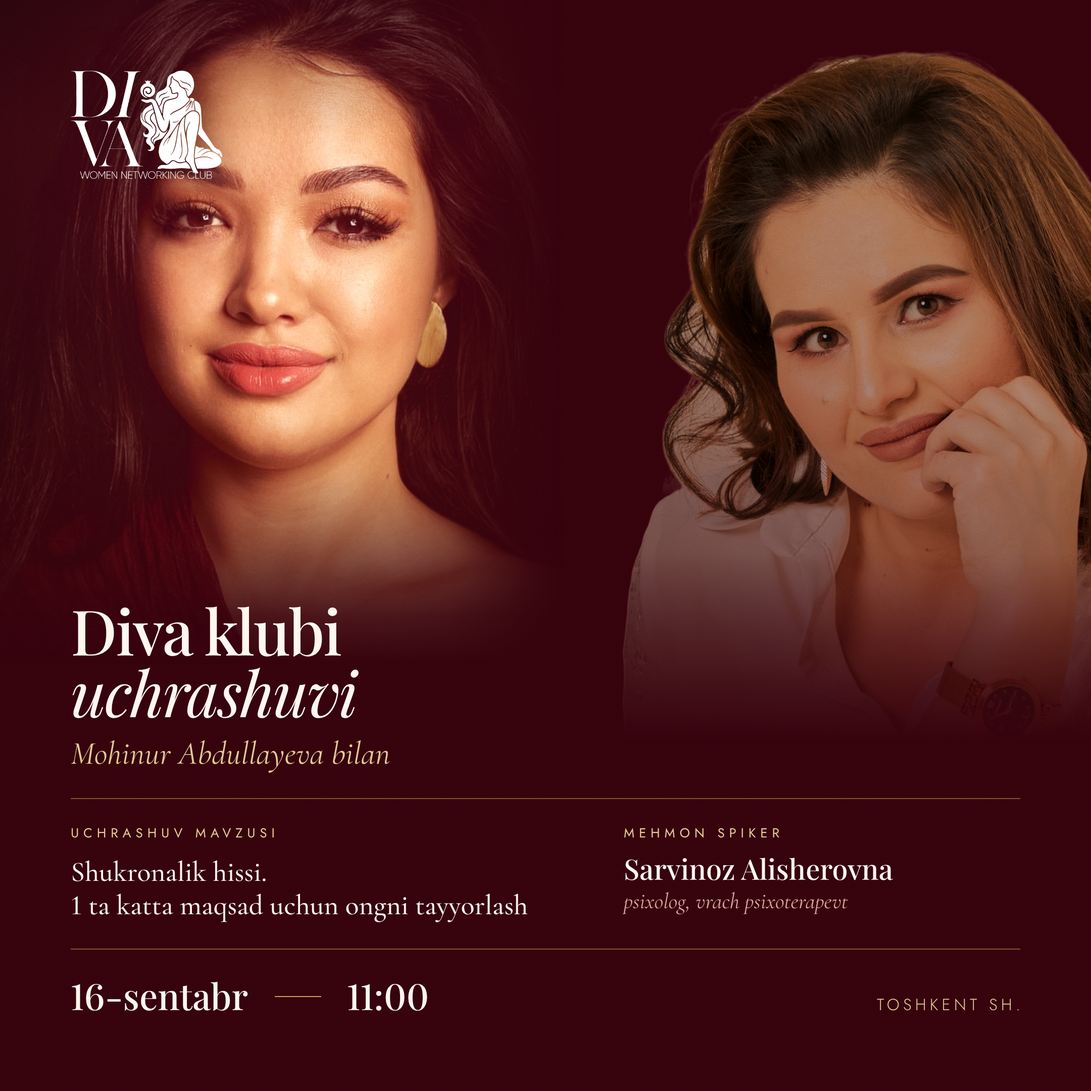
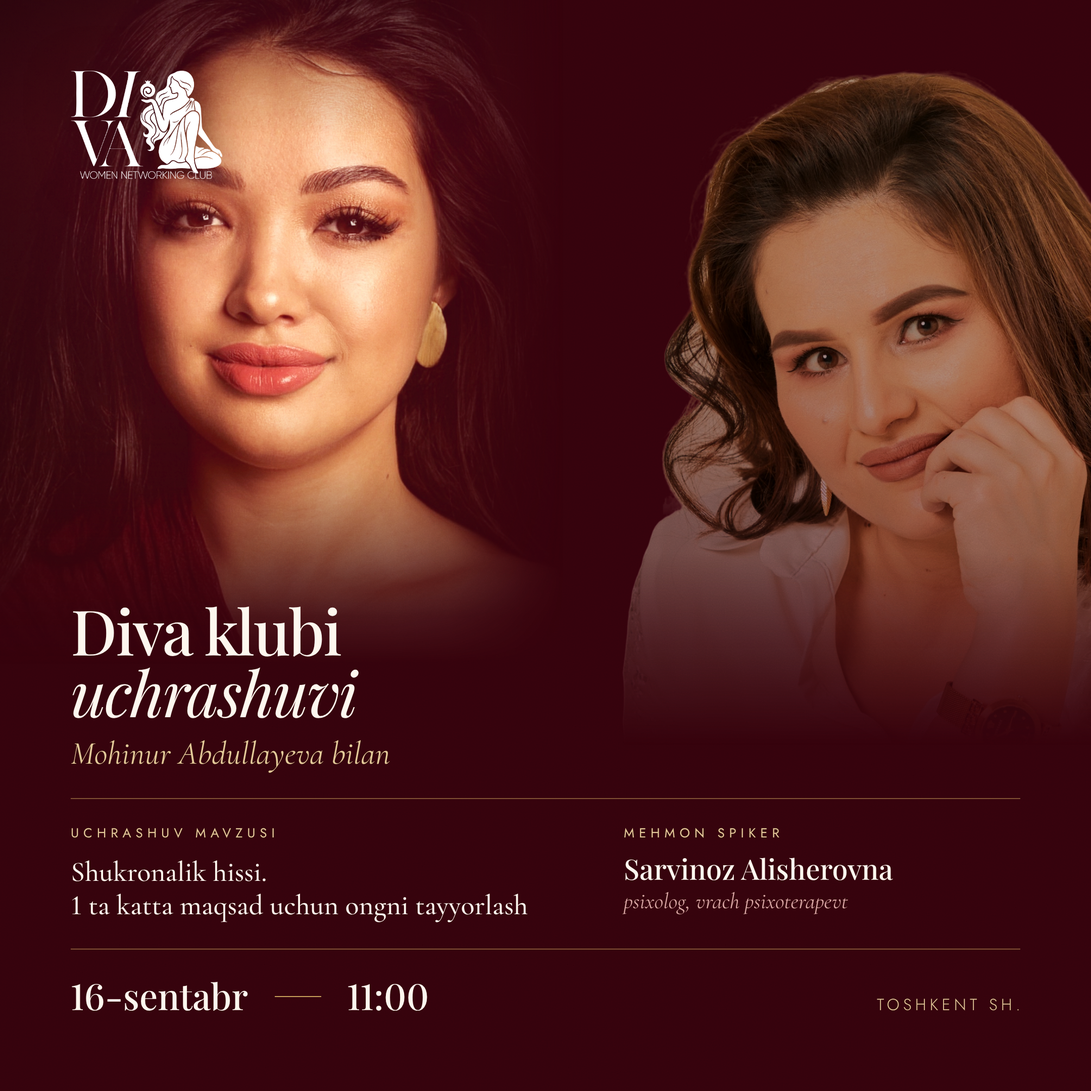
Polish direction C: dissolve the 1:1 hero, clear the story bands
The 1:1 hero panel now dissolves its two free edges with an alpha mask
instead of a painted ramp: every ramp in the file was fading toward
rgb(34,1,8) while the ground is rgb(52,2,12), so each dissolve dipped
about 11 levels dark and stepped back at the edge. A mask lets the
ground show through itself, grain included, with nothing to match.

Also lifts the 9:16 masthead, date and venue clear of the bands a
Story's UI covers, widens the guest's container so her only cuts are
canvas edges rather than a slice through her own silhouette, and
bottom-weights her tint so the blouse joins the maroon without
darkening her face.

Claude-Session: https://claude.ai/code/session_01CJcxAKvhDYH9Z96uyo456t

Changed region(s): [[0.5894, 0.031, 1.0, 0.5273], [0.9616, 0.4963, 1.0, 0.5583], [0.5583, 0.4963, 0.5894, 0.5273]]

diff --git a/diva-club-posts/variant-c.html b/diva-club-posts/variant-c.html
@@ -296,7 +296,7 @@ html[data-r="4x5"] .spk { margin-top: 34px; }
 html[data-r="4x5"] .when { margin-top: 22px; }
 html[data-r="4x5"] .city { margin-top: 14px; }
 
-/* ---- 1:1 — photo block + standing figure over one full-width type band -- */
+/* ---- 1:1 — two sunken figures over one full-width type band ------------- */
 /* The hero is not a panel. It bleeds off the top and left canvas edges and its
    two free edges are dissolved into the ground colour, so Mohinur sinks into
    the maroon exactly the way Sarvinoz does — no box, no free-floating corner.
@@ -305,7 +305,7 @@ html[data-r="1x1"] .canvas {
   --band: 664px;
   --seam: 560px;
   --hz: 1260px; --hx: -141px; --hy: -104px;
-  --sz: 168%; --sx: -11px; --sy: -5px;
+  --sz: 168%; --sx: -11px; --sy: 15px;
   --t-title: 62px; --t-with: 32px; --t-label: 13px; --t-theme: 28px;
   --t-name: 28px; --t-role: 22px; --t-date: 36px; --t-city: 16px;
   --col: 100%;
